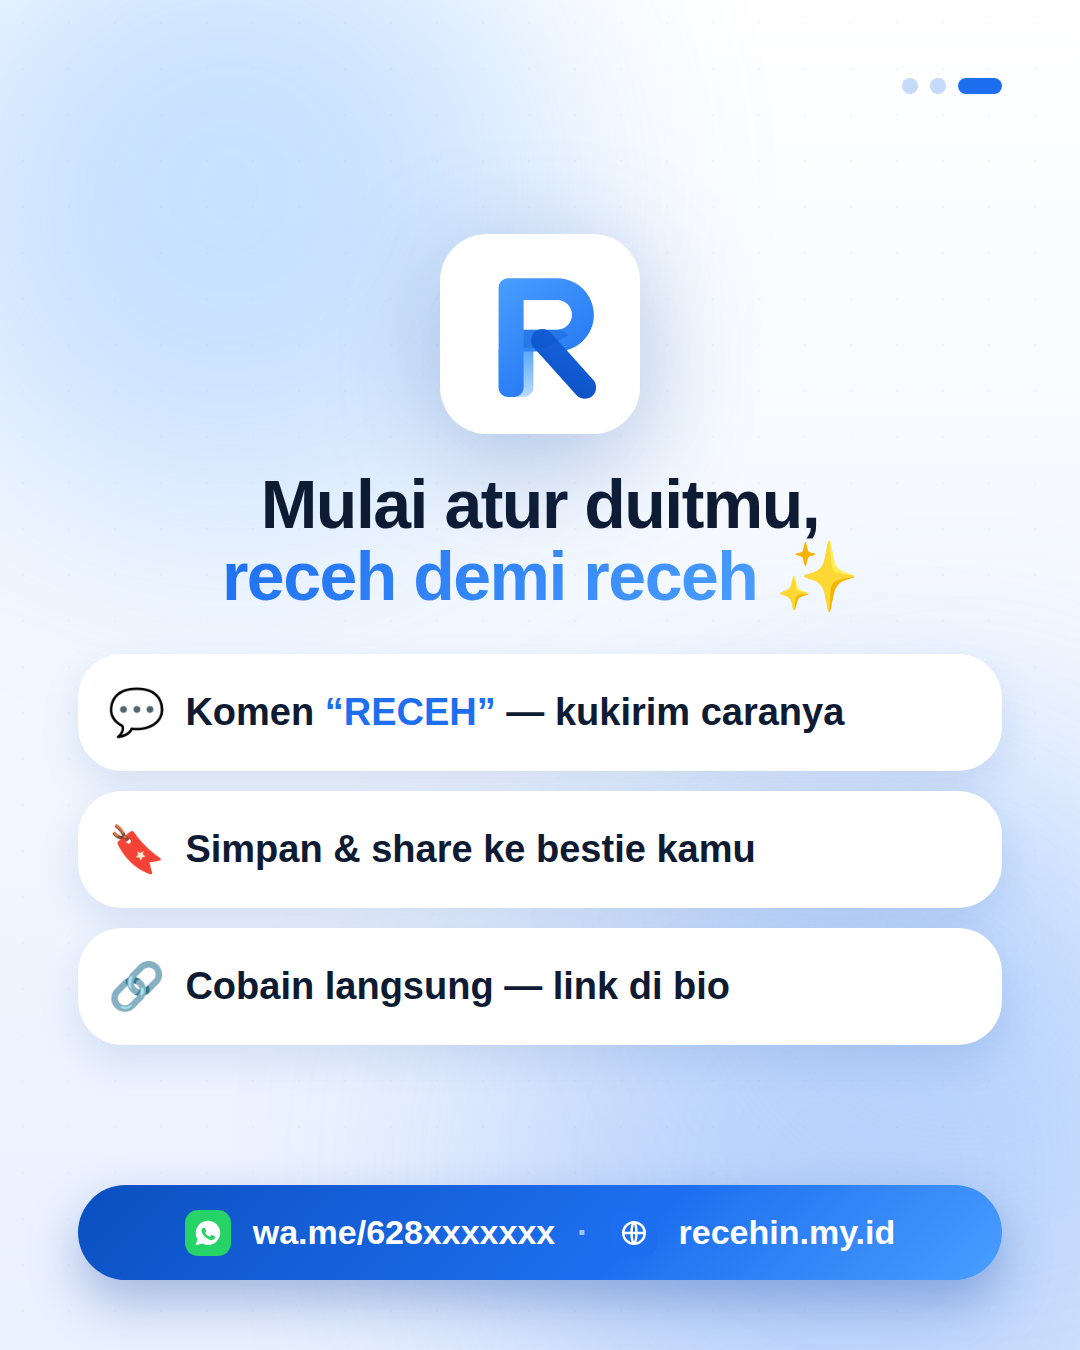
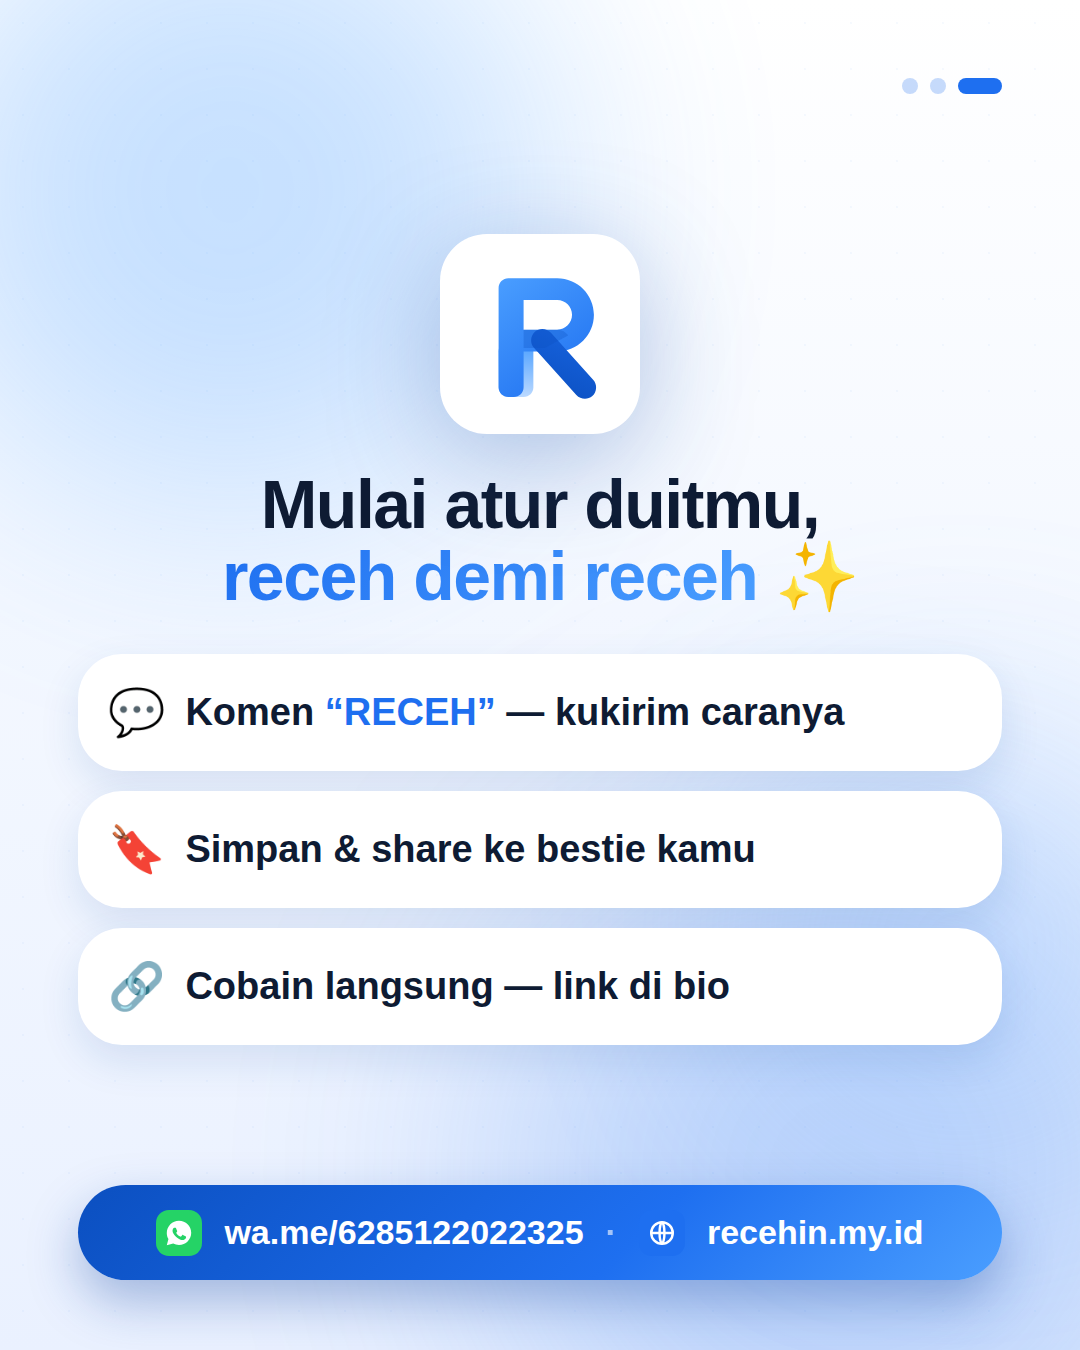
Set real WhatsApp number on carousel CTA slide
Replace placeholder wa.me/628xxxxxxx with wa.me/6285122022325 on
CarouselSlide3 and re-render the PNG.

Claude-Session: https://claude.ai/code/session_01FuuBWt8BoSjEkV26Hm4Wxn

Changed region(s): [[0.1222, 0.8711, 0.55, 0.9333], [0.5806, 0.9022, 0.8556, 0.9333]]

diff --git a/src/recehin/carousel/Slide3Cta.tsx b/src/recehin/carousel/Slide3Cta.tsx
@@ -99,7 +99,7 @@ export const Slide3Cta: React.FC = () => {
         }}
       >
         <WaIcon size={46} />
-        wa.me/628xxxxxxx
+        wa.me/6285122022325
         <span style={{ opacity: 0.6 }}>·</span>
         <WebIcon size={46} />
         recehin.my.id
